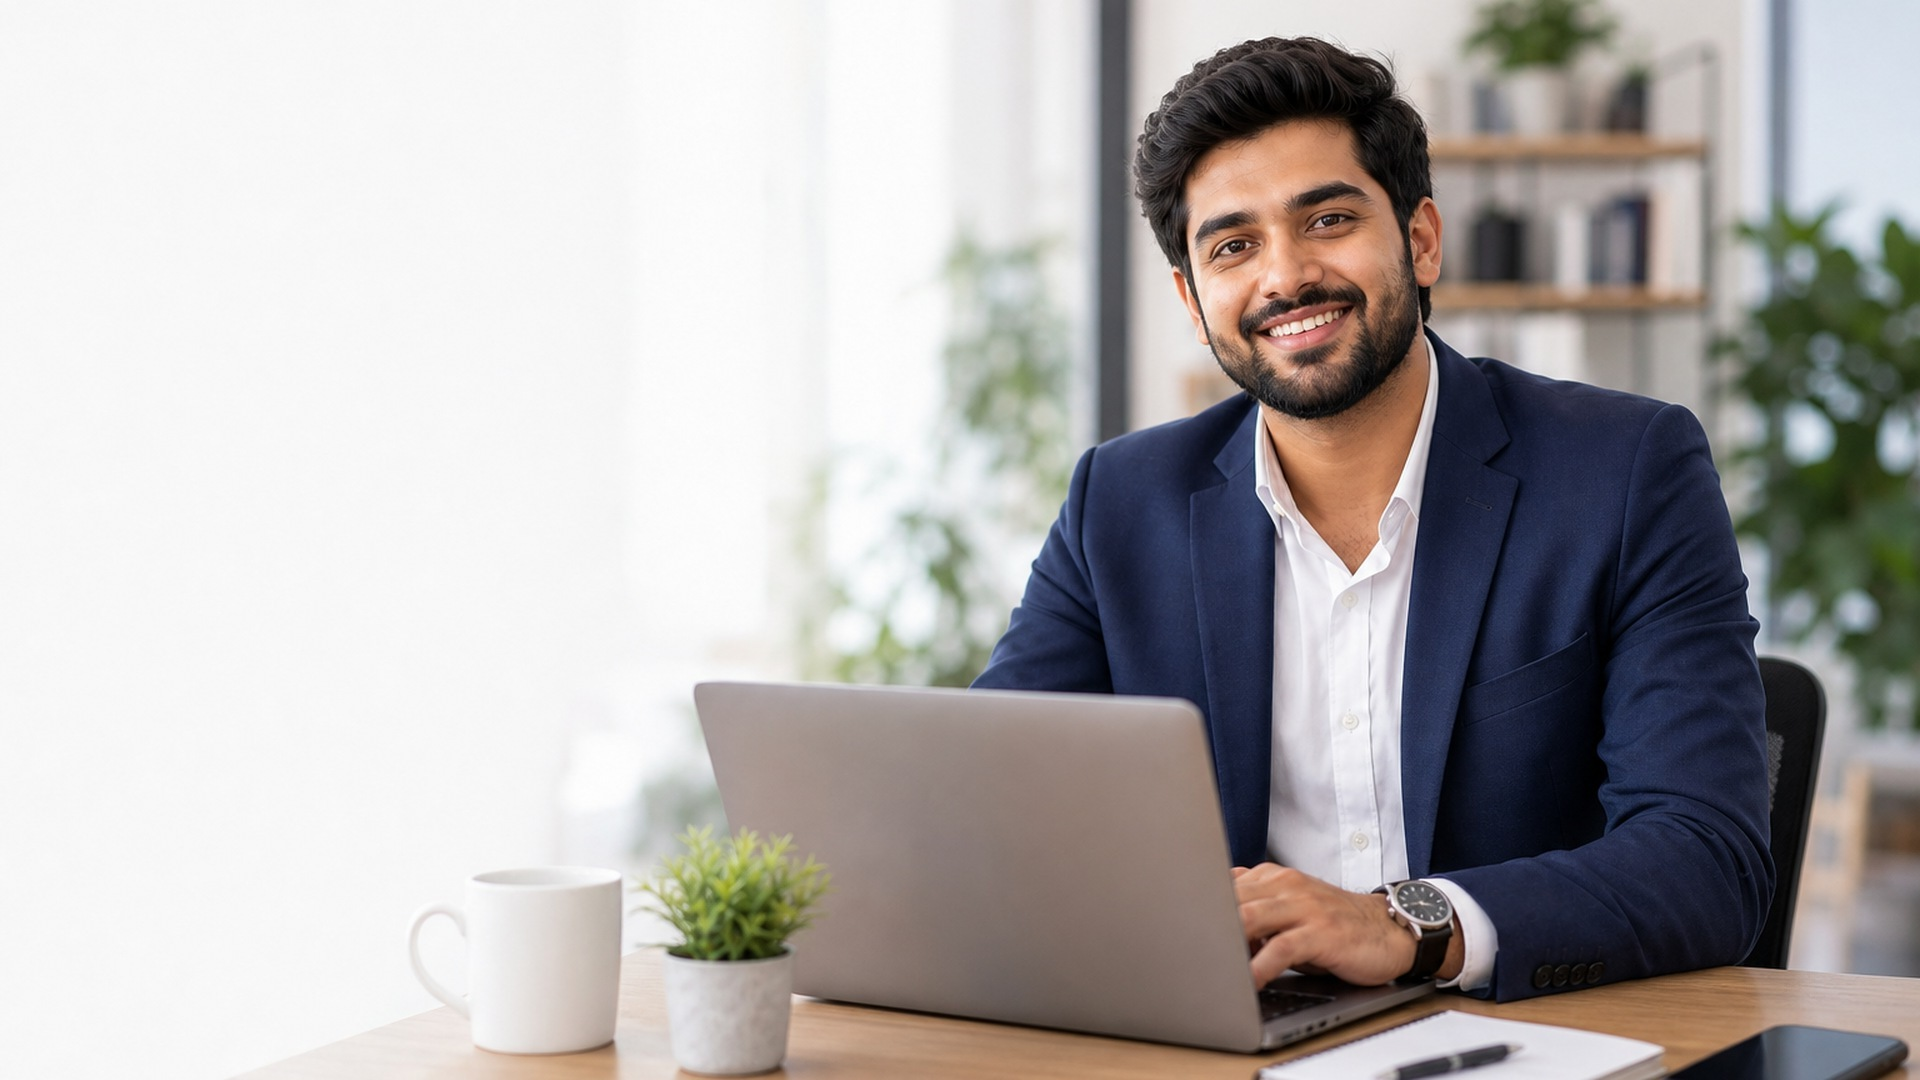
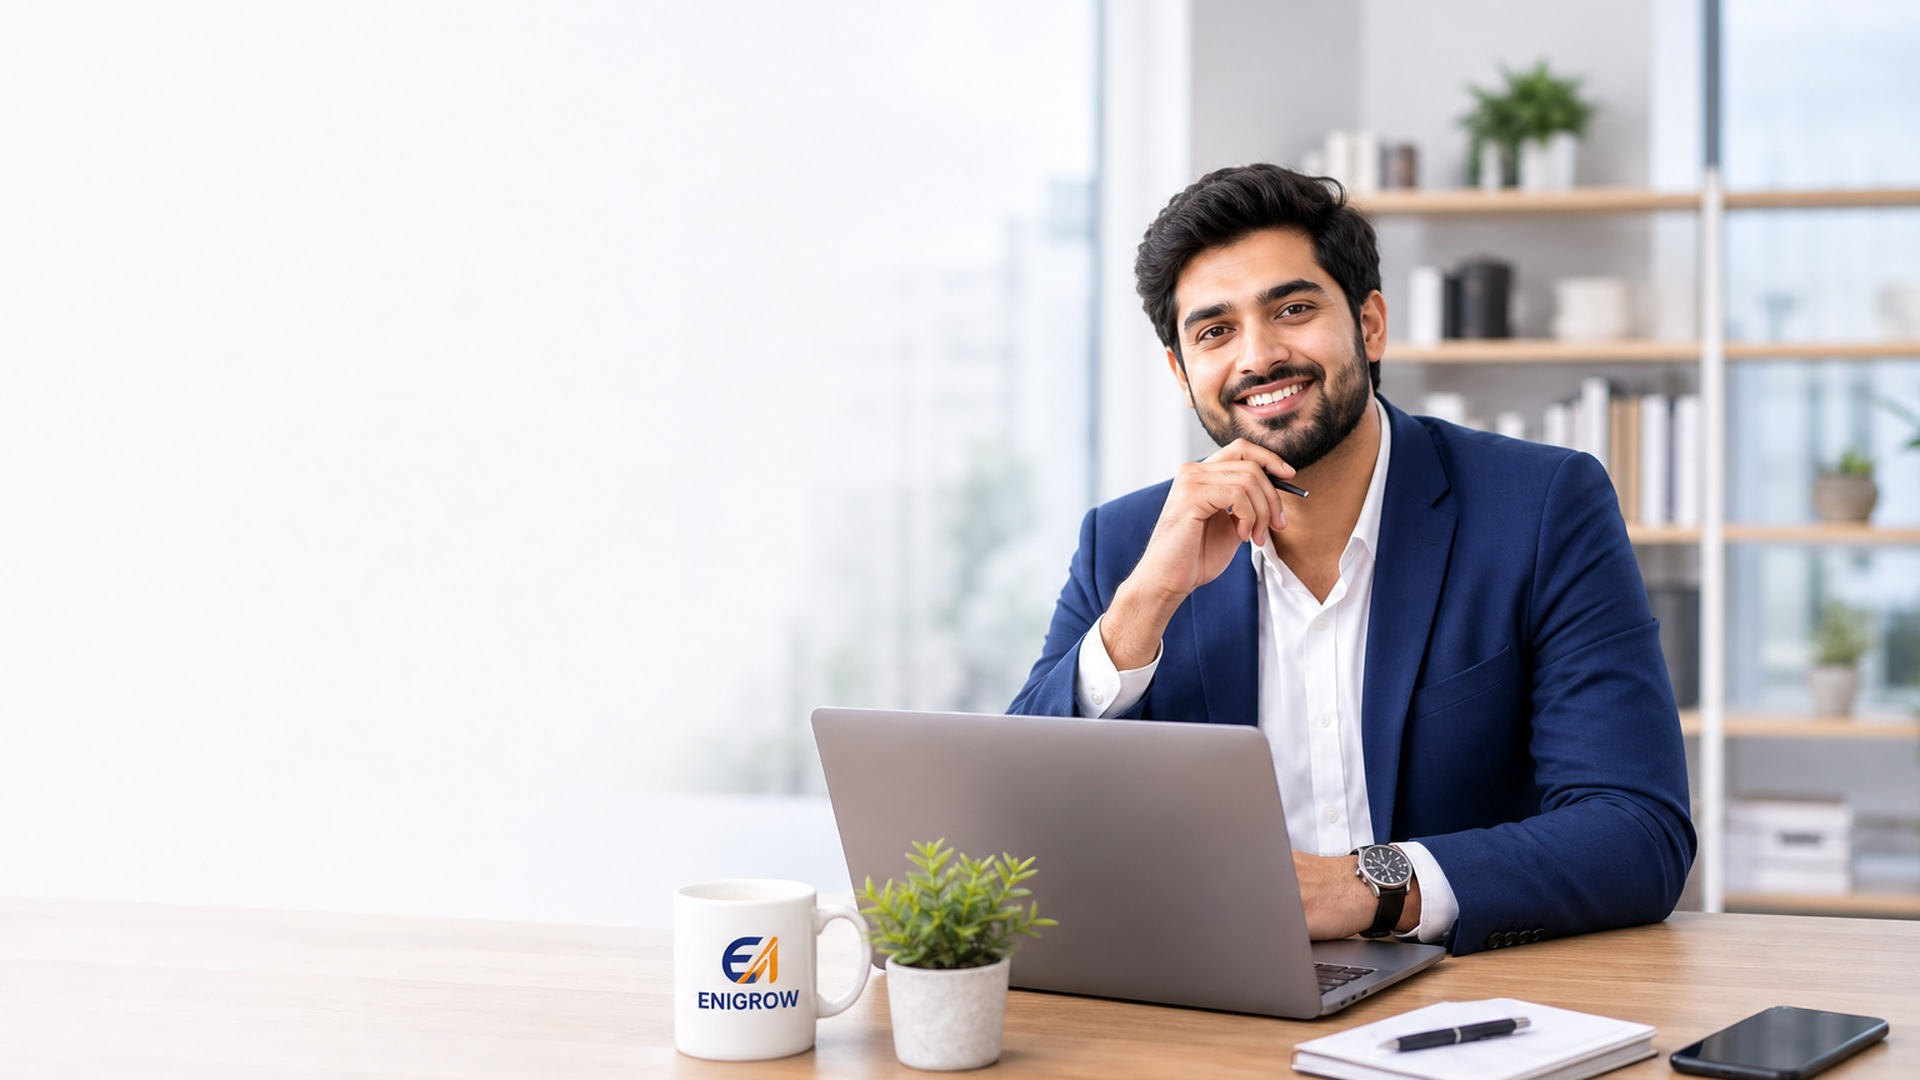
updated homepage

diff --git a/src/components/marketing/home-funding-hero.tsx b/src/components/marketing/home-funding-hero.tsx
@@ -89,21 +89,30 @@ export function HomeFundingHero({
         className="pointer-events-none absolute inset-0"
         style={{
           background:
-            "linear-gradient(165deg, #ffffff 0%, #f8f9fc 50%, #eef0fa 100%)",
+            "linear-gradient(165deg, #ffffff 0%, #f7f8fc 48%, #eef1f8 100%)",
         }}
       />
+      {/* Soft left dot pattern like reference */}
       <div
         aria-hidden
-        className="pointer-events-none absolute top-[-10%] right-[0%] size-[26rem] rounded-full bg-[#6366f1]/[0.07] blur-3xl"
+        className="pointer-events-none absolute inset-y-0 left-0 w-[42%] opacity-[0.45]"
+        style={{
+          backgroundImage:
+            "radial-gradient(circle, rgba(148,163,184,0.55) 1px, transparent 1.2px)",
+          backgroundSize: "18px 18px",
+          maskImage:
+            "linear-gradient(to right, black 0%, black 35%, transparent 85%)",
+          WebkitMaskImage:
+            "linear-gradient(to right, black 0%, black 35%, transparent 85%)",
+        }}
       />
 
-      {/* Wider than nav gutters so the hero reads full on large screens */}
       <div className="relative mx-auto w-full max-w-[90rem] px-4 pt-10 pb-8 sm:px-6 sm:pt-12 sm:pb-10 lg:px-10 lg:pt-12 lg:pb-12 xl:px-12">
-        <div className="grid items-center gap-6 lg:grid-cols-12 lg:gap-4 xl:gap-6">
-          {/* Left — copy (nudged slightly toward the photo) */}
-          <div className="relative z-[2] max-w-xl lg:col-span-5 lg:max-w-none lg:translate-x-6 xl:col-span-4 xl:translate-x-10">
+        <div className="grid items-center gap-6 lg:grid-cols-12 lg:gap-3 xl:gap-5">
+          {/* Left copy */}
+          <div className="relative z-[2] max-w-xl lg:col-span-5 lg:max-w-none lg:translate-x-6 xl:col-span-5 xl:translate-x-10">
             <motion.p
-              className="inline-flex items-center gap-2 rounded-full border border-[#001848]/10 bg-[#eef0fa] px-3.5 py-1.5 text-xs font-semibold text-[#001848]"
+              className="inline-flex items-center gap-1.5 rounded-full border border-[#c08418]/45 bg-white/90 px-3 py-1 text-[11px] font-semibold tracking-wide text-[#001848] shadow-[0_1px_2px_rgba(0,24,72,0.04)] sm:text-xs"
               initial={reduceMotion ? false : { opacity: 0, y: 10 }}
               animate={{ opacity: 1, y: 0 }}
               transition={{ duration: 0.45, ease: homeEase }}
@@ -116,14 +125,15 @@ export function HomeFundingHero({
             </motion.p>
 
             <motion.h1
-              className="font-heading mt-5 text-[2.35rem] leading-[1.12] font-bold tracking-tight text-balance text-[#001848] sm:text-[2.75rem] lg:text-[3rem] lg:leading-[1.1] xl:text-[3.25rem]"
+              className="font-heading mt-4 text-[2.35rem] leading-[1.12] font-bold tracking-tight text-balance text-[#001848] sm:text-[2.75rem] lg:text-[3.05rem] lg:leading-[1.08] xl:text-[3.35rem]"
               initial={reduceMotion ? false : { opacity: 0, y: 14 }}
               animate={{ opacity: 1, y: 0 }}
               transition={{ duration: 0.55, delay: 0.05, ease: homeEase }}
             >
               Turn Your Business Ambition Into{" "}
-              <span className="text-[#c08418]">Funded</span>{" "}
-              <span className="text-[#7c3aed]">Growth.</span>
+              <span className="bg-gradient-to-r from-[#3b82f6] via-[#c08418] to-[#ea580c] bg-clip-text text-transparent">
+                Funded Growth.
+              </span>
             </motion.h1>
 
             <motion.p
@@ -151,9 +161,7 @@ export function HomeFundingHero({
                 )}
               >
                 Explore Funding Options
-                <span className="ml-1 grid size-6 place-items-center rounded-full bg-white/15">
-                  <ArrowRight className="size-3.5 transition duration-200 group-hover/button:translate-x-0.5" />
-                </span>
+                <ArrowRight className="size-4 transition duration-200 group-hover/button:translate-x-0.5" />
               </Link>
               <Link
                 href={ROUTES.contact}
@@ -169,58 +177,60 @@ export function HomeFundingHero({
             </motion.div>
           </div>
 
-          {/* Right — large image filling remaining width */}
+          {/* Right visual */}
           <motion.div
-            className="relative z-[1] w-full lg:col-span-7 xl:col-span-8"
+            className="relative z-[1] w-full lg:col-span-7"
             initial={reduceMotion ? false : { opacity: 0, y: 12 }}
             animate={{ opacity: 1, y: 0 }}
             transition={{ duration: 0.6, delay: 0.08, ease: homeEase }}
           >
-            <div className="relative mx-auto aspect-[4/3] w-full sm:aspect-[5/4] lg:aspect-auto lg:min-h-[500px] xl:min-h-[580px]">
-              {/* Soft-bleed photo plane */}
+            <div className="relative mx-auto aspect-[4/3] w-full sm:aspect-[5/4] lg:aspect-auto lg:min-h-[500px] xl:min-h-[560px]">
               <div className="absolute inset-0 overflow-hidden">
                 <Image
                   src={HERO_PHOTO.src}
                   alt={HERO_PHOTO.alt}
                   fill
                   priority
-                  sizes="(max-width: 1024px) 100vw, 68vw"
-                  className="object-cover object-[58%_32%]"
+                  sizes="(max-width: 1024px) 100vw, 58vw"
+                  className="scale-[1.06] object-cover object-[76%_34%]"
                 />
-                {/* Soft merge only at upper-left — keep desk cup + plant visible */}
+                {/* Soft left merge — top-biased so desk mug stays clear */}
                 <div
                   aria-hidden
-                  className="pointer-events-none absolute inset-y-0 left-0 w-[22%] bg-gradient-to-r from-[#f8f9fc]/90 via-[#f8f9fc]/35 to-transparent"
+                  className="pointer-events-none absolute inset-y-0 left-0 w-[14%] bg-gradient-to-r from-[#f7f8fc]/70 via-[#f7f8fc]/25 to-transparent"
                   style={{
                     maskImage:
-                      "linear-gradient(to bottom, black 0%, black 45%, transparent 78%)",
+                      "linear-gradient(to bottom, black 0%, black 36%, transparent 68%)",
                     WebkitMaskImage:
-                      "linear-gradient(to bottom, black 0%, black 45%, transparent 78%)",
+                      "linear-gradient(to bottom, black 0%, black 36%, transparent 68%)",
                   }}
                 />
                 <div
                   aria-hidden
-                  className="pointer-events-none absolute inset-x-0 bottom-0 h-14 bg-gradient-to-t from-[#eef0fa]/45 to-transparent"
+                  className="pointer-events-none absolute inset-x-0 bottom-0 h-12 bg-gradient-to-t from-[#eef1f8]/40 to-transparent"
                 />
               </div>
 
-              {/* Growth chart — reference size (~head height) + position (left of face) */}
+              {/*
+                Growth chart — gap between headline & shoulder,
+                ~1.5 headline lines tall
+              */}
               <div
                 aria-hidden
-                className="pointer-events-none absolute top-[14%] left-[10%] z-[3] hidden w-[112px] sm:block lg:top-[16%] lg:left-[12%] lg:w-[128px] xl:w-[140px]"
+                className="pointer-events-none absolute top-[18%] left-[-2%] z-[3] hidden w-[78px] sm:block md:w-[86px] lg:top-[20%] lg:left-[2%] lg:w-[92px] xl:left-[4%] xl:w-[100px]"
               >
                 <Image
                   src="/images/hero-growth-chart.png"
                   alt=""
-                  width={280}
-                  height={290}
-                  className="h-auto w-full drop-shadow-[0_14px_28px_rgba(0,24,72,0.28)]"
+                  width={192}
+                  height={200}
+                  className="h-auto w-full drop-shadow-[0_12px_24px_rgba(0,24,72,0.25)]"
                 />
               </div>
 
-              {/* Funding Approved — top right */}
+              {/* Funding Approved */}
               <motion.div
-                className="absolute top-[3%] right-[2%] z-[4] w-[148px] rounded-2xl bg-white p-3 shadow-[0_16px_40px_-18px_rgba(0,24,72,0.32)] ring-1 ring-black/[0.05] sm:w-[168px] sm:p-3.5"
+                className="absolute top-[3%] right-[2%] z-[4] w-[156px] rounded-2xl bg-white p-3 shadow-[0_16px_40px_-18px_rgba(0,24,72,0.32)] ring-1 ring-black/[0.05] sm:w-[172px] sm:p-3.5"
                 animate={reduceMotion ? undefined : { y: [0, -4, 0] }}
                 transition={{
                   duration: 5.5,
@@ -228,11 +238,7 @@ export function HomeFundingHero({
                   ease: "easeInOut",
                 }}
               >
-                <p className="flex items-center gap-1.5 text-[10px] font-semibold tracking-[0.08em] text-[#16a34a] uppercase">
-                  <CheckCircle2 className="size-3.5 shrink-0" aria-hidden />
-                  Funding Approved
-                </p>
-                <p className="font-heading mt-1.5 text-xl font-bold tracking-tight text-[#001848]">
+                <p className="font-heading text-xl font-bold tracking-tight text-[#001848] sm:text-[1.35rem]">
                   ₹25,00,000
                 </p>
                 <p className="mt-0.5 text-[11px] font-medium text-[#5b6577]">
@@ -256,11 +262,15 @@ export function HomeFundingHero({
                     strokeLinecap="round"
                   />
                 </svg>
+                <p className="mt-2 inline-flex items-center gap-1 rounded-full bg-[#16a34a]/10 px-2 py-0.5 text-[10px] font-semibold text-[#16a34a]">
+                  <CheckCircle2 className="size-3 shrink-0" aria-hidden />
+                  Funding Approved
+                </p>
               </motion.div>
 
-              {/* Verification Status — mid right */}
+              {/* Verification Status */}
               <motion.div
-                className="absolute top-[38%] right-[1%] z-[4] hidden w-[168px] rounded-2xl bg-white p-3 shadow-[0_14px_36px_-16px_rgba(0,24,72,0.28)] ring-1 ring-black/[0.05] sm:block sm:w-[178px] sm:p-3.5"
+                className="absolute top-[40%] right-[2%] z-[4] hidden w-[168px] rounded-2xl bg-white p-3 shadow-[0_14px_36px_-16px_rgba(0,24,72,0.28)] ring-1 ring-black/[0.05] sm:block sm:w-[178px] sm:p-3.5"
                 animate={reduceMotion ? undefined : { y: [0, 3, 0] }}
                 transition={{
                   duration: 6,
@@ -290,9 +300,9 @@ export function HomeFundingHero({
                 </ul>
               </motion.div>
 
-              {/* Growth Partner — bottom overlap */}
+              {/* Growth Partner pill */}
               <motion.div
-                className="absolute right-[4%] bottom-[3%] z-[4] flex w-[min(90%,240px)] items-center gap-2.5 rounded-2xl bg-gradient-to-r from-[#001848] to-[#1e3a6e] p-3 text-white shadow-[0_16px_40px_-18px_rgba(0,24,72,0.45)]"
+                className="absolute right-[3%] bottom-[5%] z-[4] flex w-[min(92%,260px)] items-center gap-2.5 rounded-full bg-[#001848] py-2.5 pr-2.5 pl-3 text-white shadow-[0_16px_40px_-18px_rgba(0,24,72,0.45)]"
                 animate={reduceMotion ? undefined : { y: [0, -2.5, 0] }}
                 transition={{
                   duration: 5.8,
@@ -301,30 +311,32 @@ export function HomeFundingHero({
                   delay: 0.7,
                 }}
               >
-                <div className="relative size-8 shrink-0 overflow-hidden rounded-lg bg-white/10 p-0.5">
+                <div className="relative size-7 shrink-0 overflow-hidden rounded-full bg-white/10 p-0.5">
                   <Image
                     src="/brand/enigrow-logo.png"
                     alt=""
-                    width={32}
-                    height={32}
+                    width={28}
+                    height={28}
                     className="size-full object-contain"
                   />
                 </div>
                 <div className="min-w-0 flex-1">
-                  <p className="text-xs font-bold">Your Growth Partner</p>
-                  <p className="mt-0.5 text-[10px] leading-snug text-white/70">
+                  <p className="text-[11px] leading-tight font-bold sm:text-xs">
+                    Your Growth Partner
+                  </p>
+                  <p className="mt-0.5 text-[9px] leading-snug text-white/70 sm:text-[10px]">
                     From Registration to Funding, We&apos;ve Got You Covered!
                   </p>
                 </div>
-                <span className="grid size-6 shrink-0 place-items-center rounded-full bg-white/15">
-                  <ArrowUpRight className="size-3" aria-hidden />
+                <span className="grid size-7 shrink-0 place-items-center rounded-full bg-white/15">
+                  <ArrowUpRight className="size-3.5" aria-hidden />
                 </span>
               </motion.div>
             </div>
           </motion.div>
         </div>
 
-        {/* Metrics — same container width as nav + hero */}
+        {/* Metrics bar */}
         <motion.div
           className="relative z-[2] mt-10 rounded-2xl border border-[#e2e6ef]/90 bg-white p-4 shadow-[0_16px_40px_-24px_rgba(0,24,72,0.28)] sm:mt-12 sm:p-5"
           initial={reduceMotion ? false : { opacity: 0, y: 14 }}
